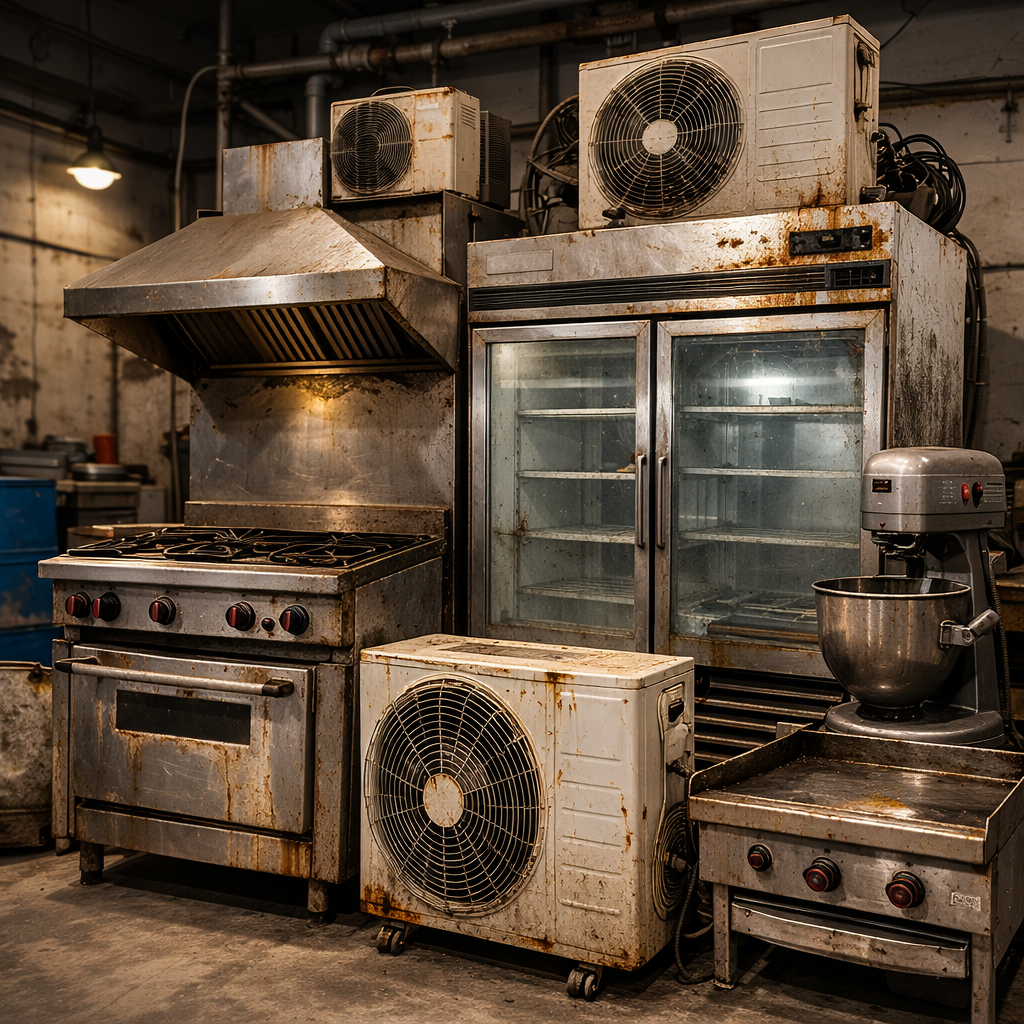
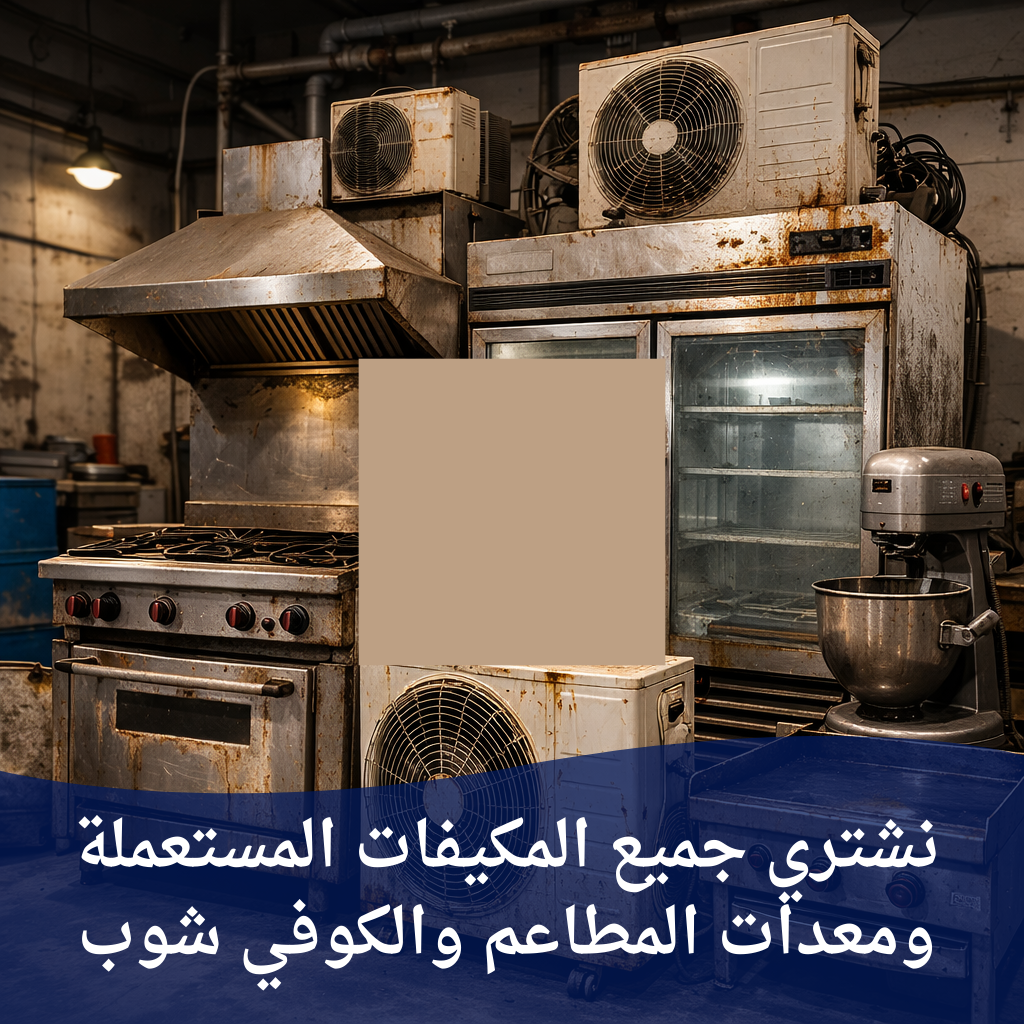
Add files via upload

diff --git a/index.html b/index.html
@@ -50,7 +50,7 @@
       </a>
 
         <!-- Uncomment the line below if you also wish to use an image logo -->
-         <a style="margin-bottom: 10PX;background: #25d366" href="https://iwtsp.com/966536801275" class="btn btn-primary px-4 py-3 px-md-5  me-4 btn-border-radius"> تواصل واتساب الان  </a>
+         <a style="margin-bottom: 10PX;background: #25d366" href="https://iwtsp.com/966545001228" class="btn btn-primary px-4 py-3 px-md-5  me-4 btn-border-radius"> تواصل واتساب الان  </a>
        <!-- <h1 class="sitename">نسيم</h1>-->
          <!---->
       <nav id="navmenu" class="navmenu" style="display: none;">
@@ -103,28 +103,28 @@
       </div>
 
     </section>--><!-- /Hero Section -->
-    <section >
+    <section>
       <div class="container-fluid" style="padding-right: 0px;padding-left: 0px;">
        <div id="myCarousel" class="carousel slide" data-ride="carousel">
        <!-- Indicators -->
          <ol class="carousel-indicators">
        <li data-target="#myCarousel" data-slide-to="0" class="active"></li>
        <li data-target="#myCarousel" data-slide-to="1"></li>
-       <li data-target="#myCarousel" data-slide-to="2"></li>
+       <!--<li data-target="#myCarousel" data-slide-to="2"></li>-->
     </ol>
 
     <!-- Wrapper for slides -->
-    <div class="carousel-inner col-xl-12" style="height: 350px;">
+    <div class="carousel-inner col-xl-12" style="height: 400px;">
 
       <div class="item active col-xl-12">
-        <img class="col-xl-12" src="img/2.png" alt="نشتري المكيفات المستعملة" >
+        <img class="col-xl-12" src="img/3.png" alt="نشتري المكيفات المستعملة" >
         <div class="carousel-caption">
 
         </div>
       </div>
 
       <div class="item">
-        <img src="img/3.png" alt="بيع تكيفك او الثلاجة الخربانة" >
+        <img src="img/2.png" alt="بيع تكيفك او الثلاجة الخربانة" >
         <div class="carousel-caption">
 
         </div>
@@ -142,17 +142,29 @@
     </div>
    </div>
   </section>
-
-    <!-- Call To Action Section -->
-    <section id="call-to-action" class="call-to-action section dark-background">
+   
+  <section id="call-to-action" class="call-to-action section" style="background: #fff;">
 
       <div class="container">
         <div class="row justify-content-center" data-aos="zoom-in" data-aos-delay="100">
           <div class="col-xl-10">
             <div class="text-center">
-              <a style="background: #25d366;color: #fff;border: #fff;font-size: x-large;" class="cta-btn" href="https://iwtsp.com/00966536801275">تواصل واتساب الان</a>
-            <br><br>
-              <h3 style="margin-top: 0px;">  نشتري التكييفات المستعملة او الخربانة وجميع أجهزة التبريد، ومعدات المطاعم والمطابخ والكوفي شوب بسعر يرضيك ودفع فوري </h3>
+              <a style="background: #25d366;color: #fff;border: #fff;font-size: x-large;" class="cta-btn" href="https://iwtsp.com/00966545001228">تواصل واتساب الان</a>
+            </div>
+          </div>
+         
+        </div>
+      </div>
+    </section><!-- /Call To Action Section --> 
+ 
+    <!-- Call To Action Section -->
+    <section id="call-to-action" class="call-to-action section dark-background" style="background-color: #031555;">
+
+      <div class="container">
+        <div class="row justify-content-center" data-aos="zoom-in" data-aos-delay="100">
+          <div class="col-xl-10">
+            <div class="text-center">
+              <h3 style="margin-top: 0px;">  نشتري المكيفات المستعملة والخربانة وجميع أجهزة التبريد، ومعدات المطاعم والمطابخ والكوفي شوب بسعر يرضيك ودفع فوري </h3>
             </div>
           </div>
          
@@ -161,15 +173,15 @@
     </section><!-- /Call To Action Section --> 
   </main>
         <div style="text-align: center;">
-          <h5 style="color: black;">   جميع الحقوق محفوظة لدى نسيم المستعمل بالرياض </h3>
+          <h5 style="color: black;font-size:medium;">  2026 جميع الحقوق محفوظة لدى شركة الجوهرة<br> لشراء المكيفات ومعدات المطاعم بالرياض </h3>
           <a style="font-size: large;padding-bottom: 20px;" target="_blank" href="https://digital-marketing-proo.com/"> تصميم وتطوير | شركة ديجيتال ماركتنج برو </a>
           </div>
   <!-- Scroll Top -->
    <!--<a style="display: none;" href="#" id="scroll-top" class="scroll-top d-flex align-items-center justify-content-center"><i class="bi bi-arrow-up-short"></i></a>-->
    <a style="display: none;" href="#" id="scroll-top" class="scroll-top  justify-content-center"><i class=""></i></a>
 
-   <a class="whats-app"href="tel:00966536801275" target="_blank"><i class="bi bi-telephone"></i></a>
-   <a href="https://iwtsp.com/00966536801275" id="fixedWhatsAppIcon" class="wow zoomIn" target="_blank"><i style="font-size: larger;" class="bi bi-whatsapp"></i></a>
+   <a class="whats-app"href="tel:00966545001228" target="_blank"><i class="bi bi-telephone"></i></a>
+   <a href="https://iwtsp.com/00966545001228" id="fixedWhatsAppIcon" class="wow zoomIn" target="_blank"><i style="font-size: larger;" class="bi bi-whatsapp"></i></a>
   
   <!-- Preloader -->
   <div style="display: none;" id="preloader"></div>

diff --git a/css/main.css b/css/main.css
@@ -177,7 +177,7 @@ h6 {
 /* Global Header on Scroll
 ------------------------------*/
 .scrolled .header {
-  --background-color: #394257;
+  --background-color: #031555;
 }
 
 /*--------------------------------------------------------------
@@ -666,8 +666,8 @@ h6 {
 section,
 .section {
   color: var(--default-color);
-  background-color: var(--background-color);
-  padding: 47px 0;
+  /*background-color: #031555;*/
+  padding: 47px 0 0;
   scroll-margin-top: 90px;
   overflow: clip;
 }
@@ -1048,7 +1048,7 @@ section,
 }
 
 .call-to-action h3 {
-  font-size: 25px;
+  font-size: 23px;
   font-weight: 700;
   color: var(--default-color);
 }
@@ -1066,7 +1066,7 @@ section,
   padding: 12px 40px;
   border-radius: 50px;
   transition: 0.3s;
-  margin: 10px;
+  
   border: 2px solid var(--accent-color);
   color: var(--contrast-color);
 }
